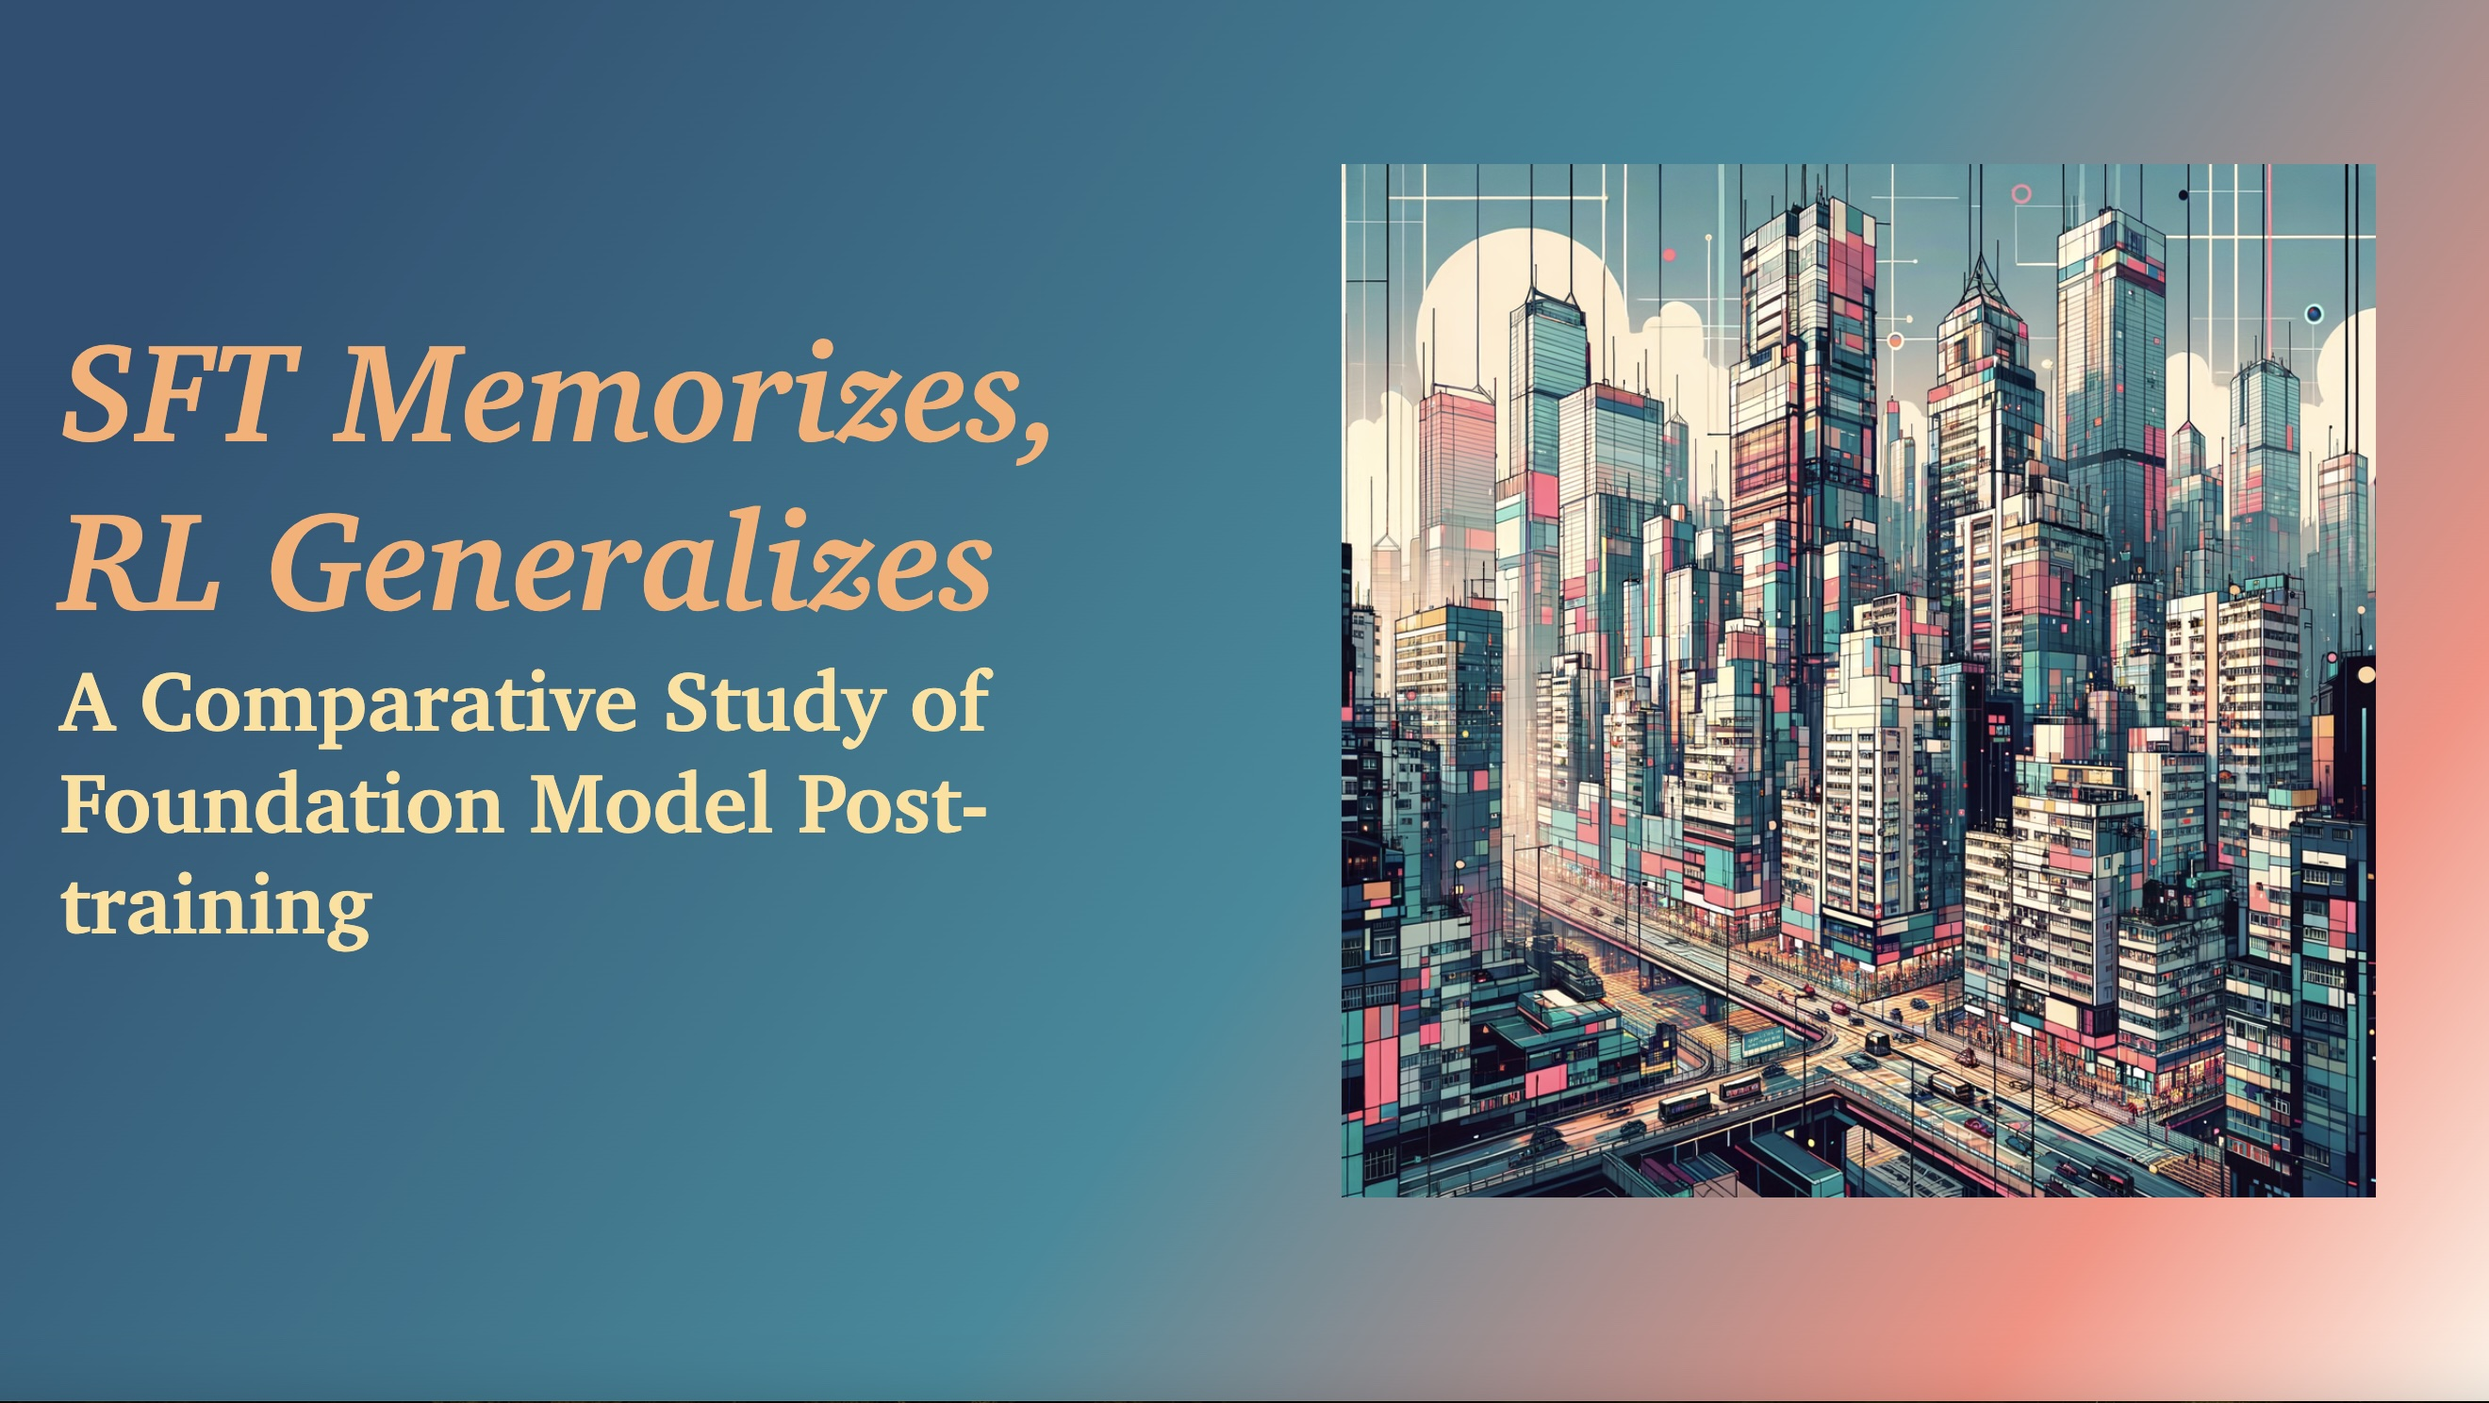
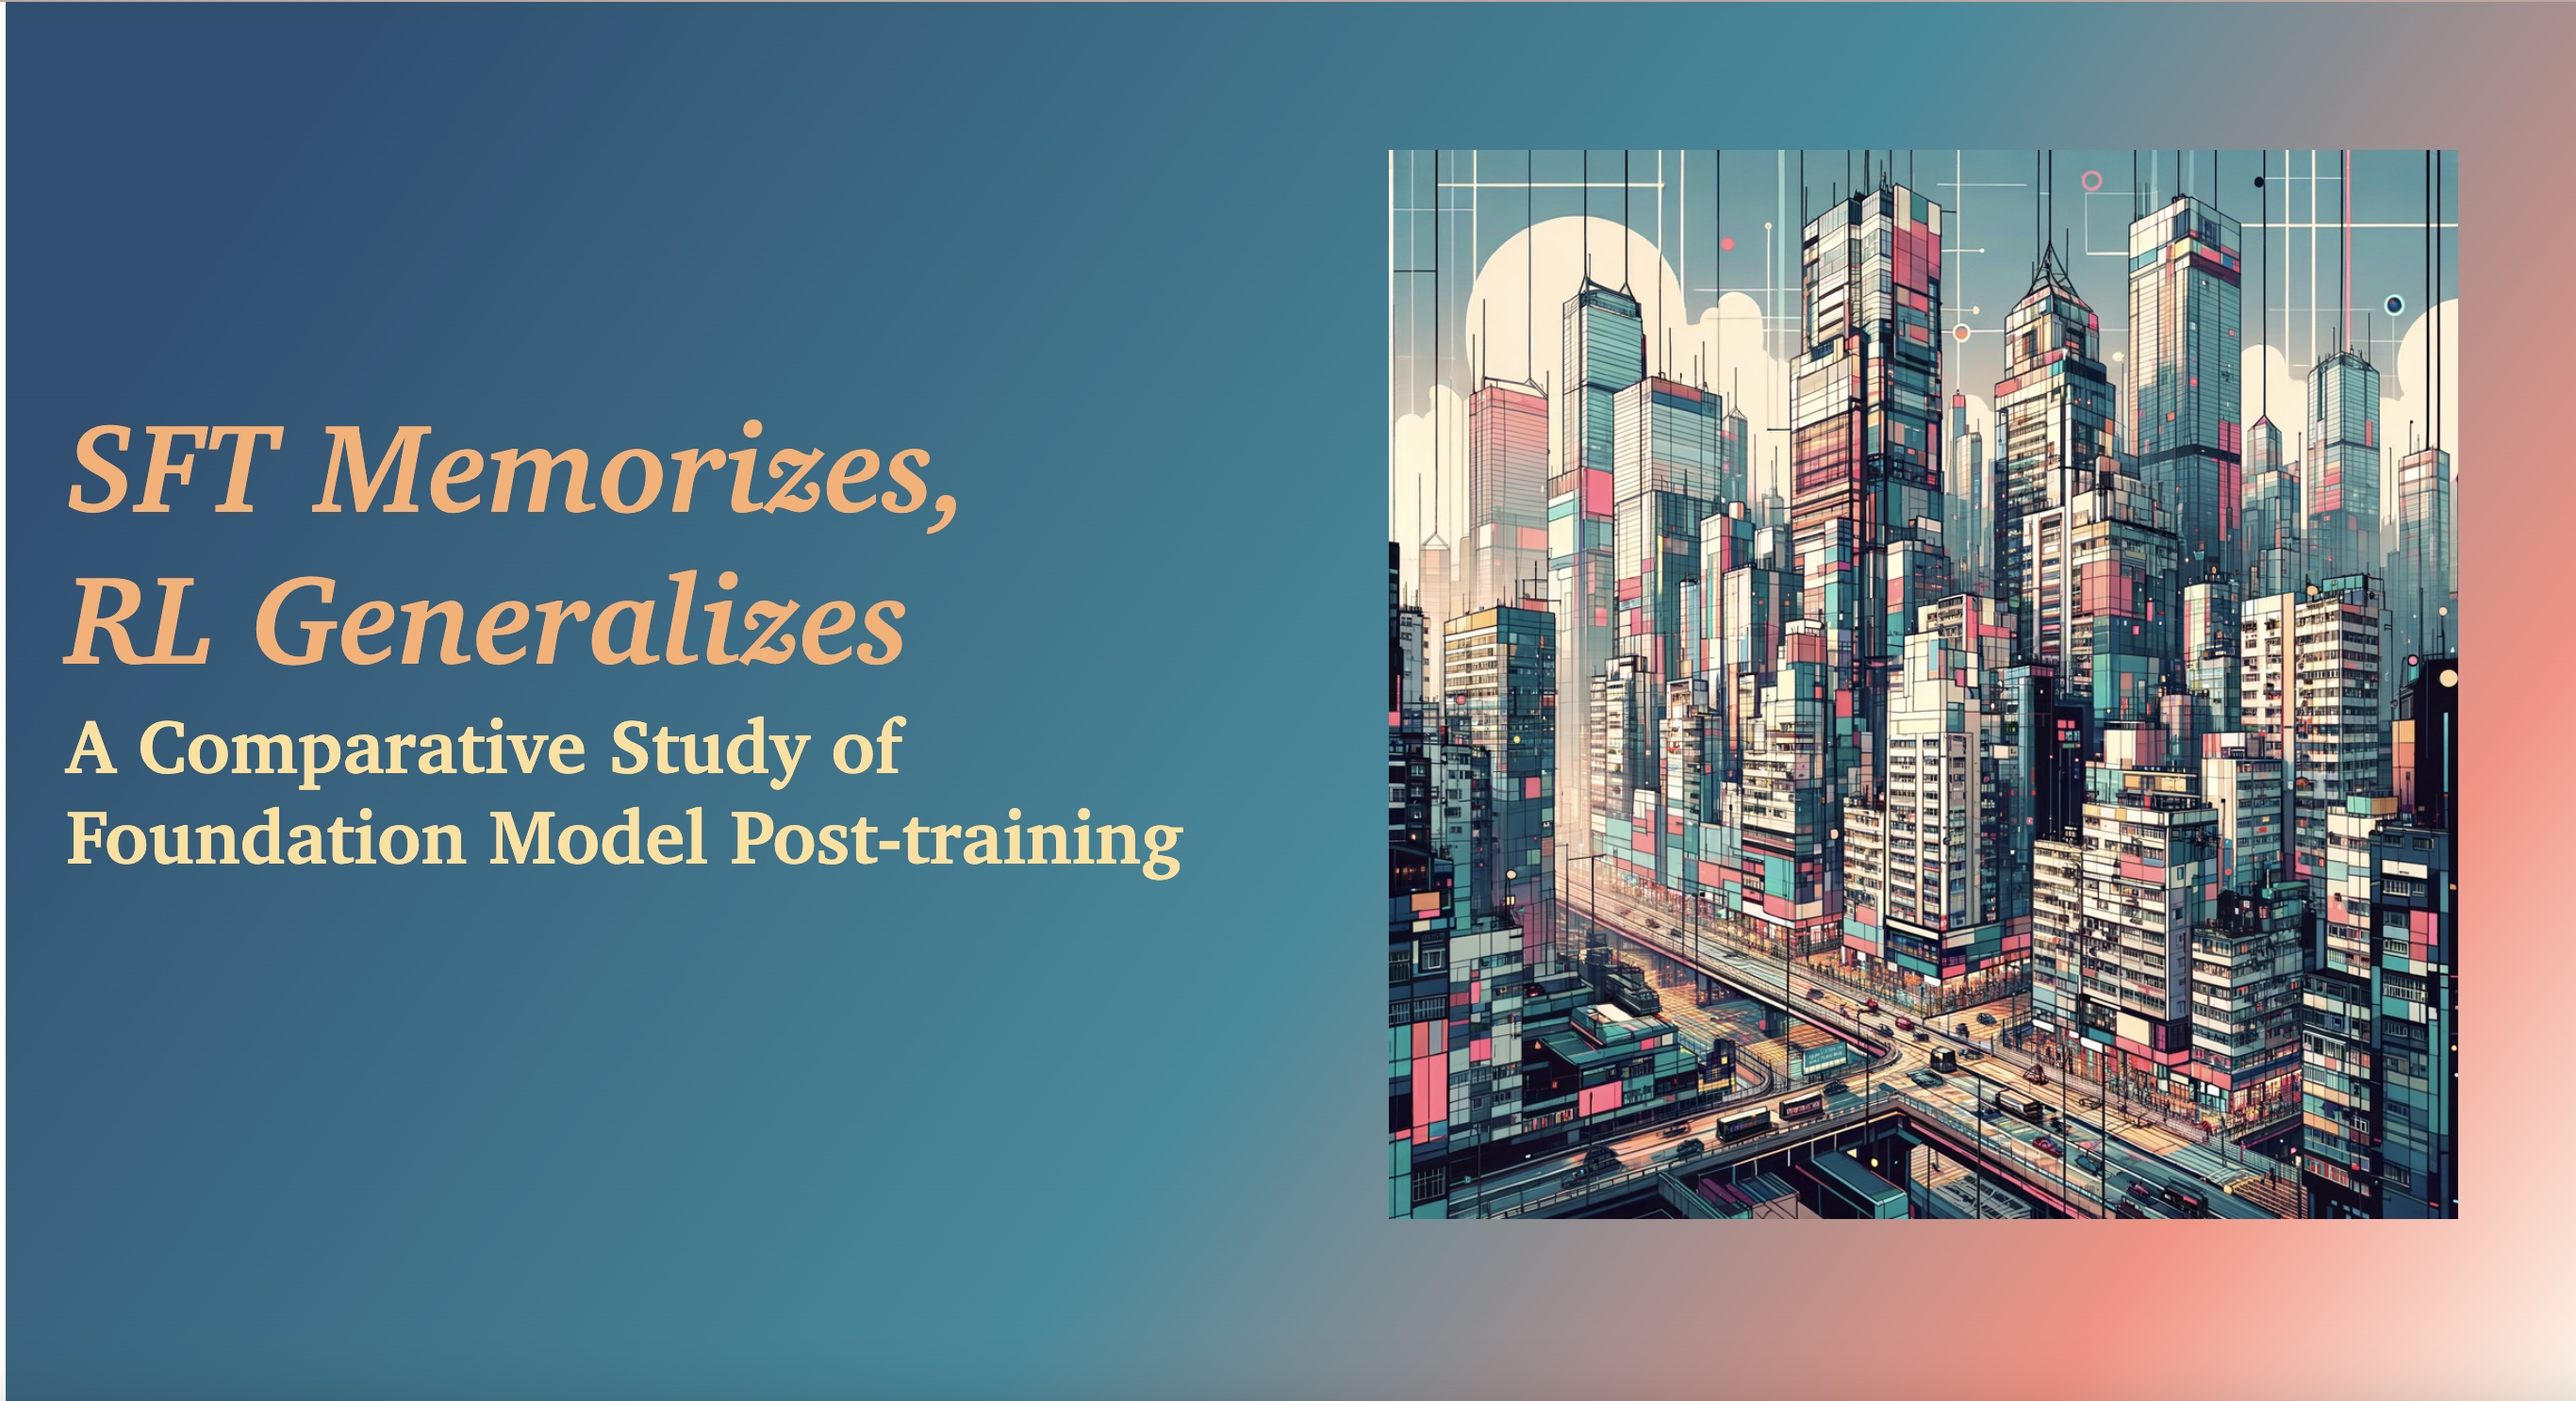
upd

diff --git a/SFTvsRL/preview.html b/SFTvsRL/preview.html
@@ -50,9 +50,9 @@
             }
             .header-wrapper {
                 width: 100vw;
-                height: 56.25vw; /* 16:9 aspect ratio */
+                height: 54.55vw; /* 11:6 aspect ratio (6/11 = 0.5455) */
                 max-height: 100vh;
-                max-width: 177.78vh; /* 16:9 aspect ratio */
+                max-width: 183.33vh; /* 11:6 aspect ratio (11/6 = 1.8333) */
                 margin: auto;
                 position: relative;
                 overflow: hidden;
@@ -64,14 +64,14 @@
                 padding: 2rem;
             }
             .header-content {
-                flex: 1;
+                flex: 1.1; /* Slightly larger than the image section for 11:6 ratio */
                 display: flex;
                 flex-direction: column;
                 justify-content: center;
                 padding-right: 2rem;
             }
             .header-image {
-                flex: 1;
+                flex: 0.9; /* Slightly smaller than the content section for 11:6 ratio */
                 display: flex;
                 align-items: center;
                 justify-content: center;
@@ -82,12 +82,12 @@
                 object-fit: contain;
             }
             h1 {
-                font-size: clamp(2rem, 5vw, 5rem) !important;
+                font-size: clamp(2rem, 4.5vw, 5rem) !important;
                 margin: 0 0 1rem 0;
                 line-height: 1.2;
             }
             h2 {
-                font-size: clamp(1.5rem, 3vw, 3rem) !important;
+                font-size: clamp(1.5rem, 2.7vw, 3rem) !important;
                 margin: 0 0 2rem 0;
                 line-height: 1.3;
             }
@@ -102,6 +102,9 @@
                     padding-right: 0;
                     padding-bottom: 2rem;
                 }
+                .header-content, .header-image {
+                    flex: 1;
+                }
             }
         </style>
     </head>
@@ -109,7 +112,7 @@
         <div class="header-wrapper">
             <div class="header-container">
                 <div class="header-content">
-                    <h1><i>SFT Memorizes, RL Generalizes</i></h1>
+                    <h1><i>SFT Memorizes, <br>RL Generalizes</i></h1>
                     <h2>A Comparative Study of Foundation Model Post-training</h2>
                     <div class="button-container">
                         <!-- Button content here if needed -->
